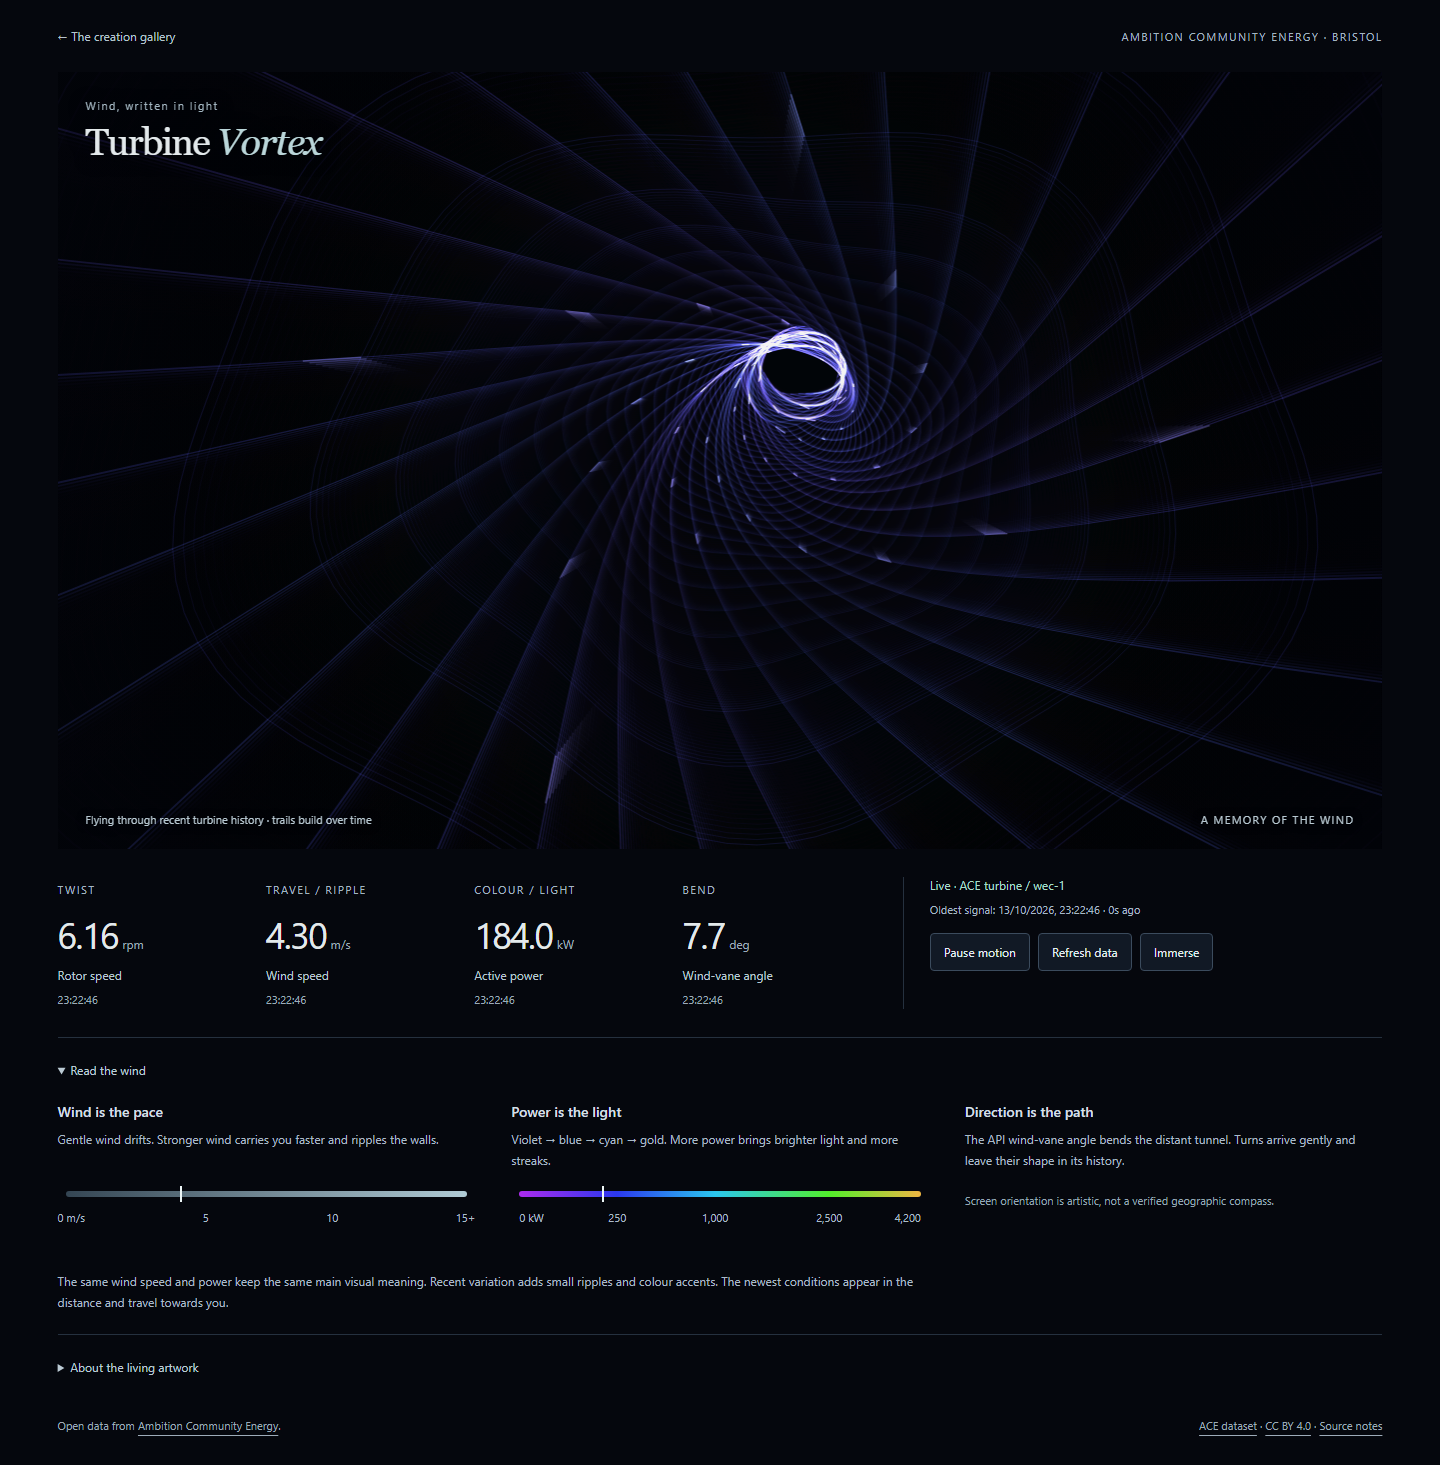
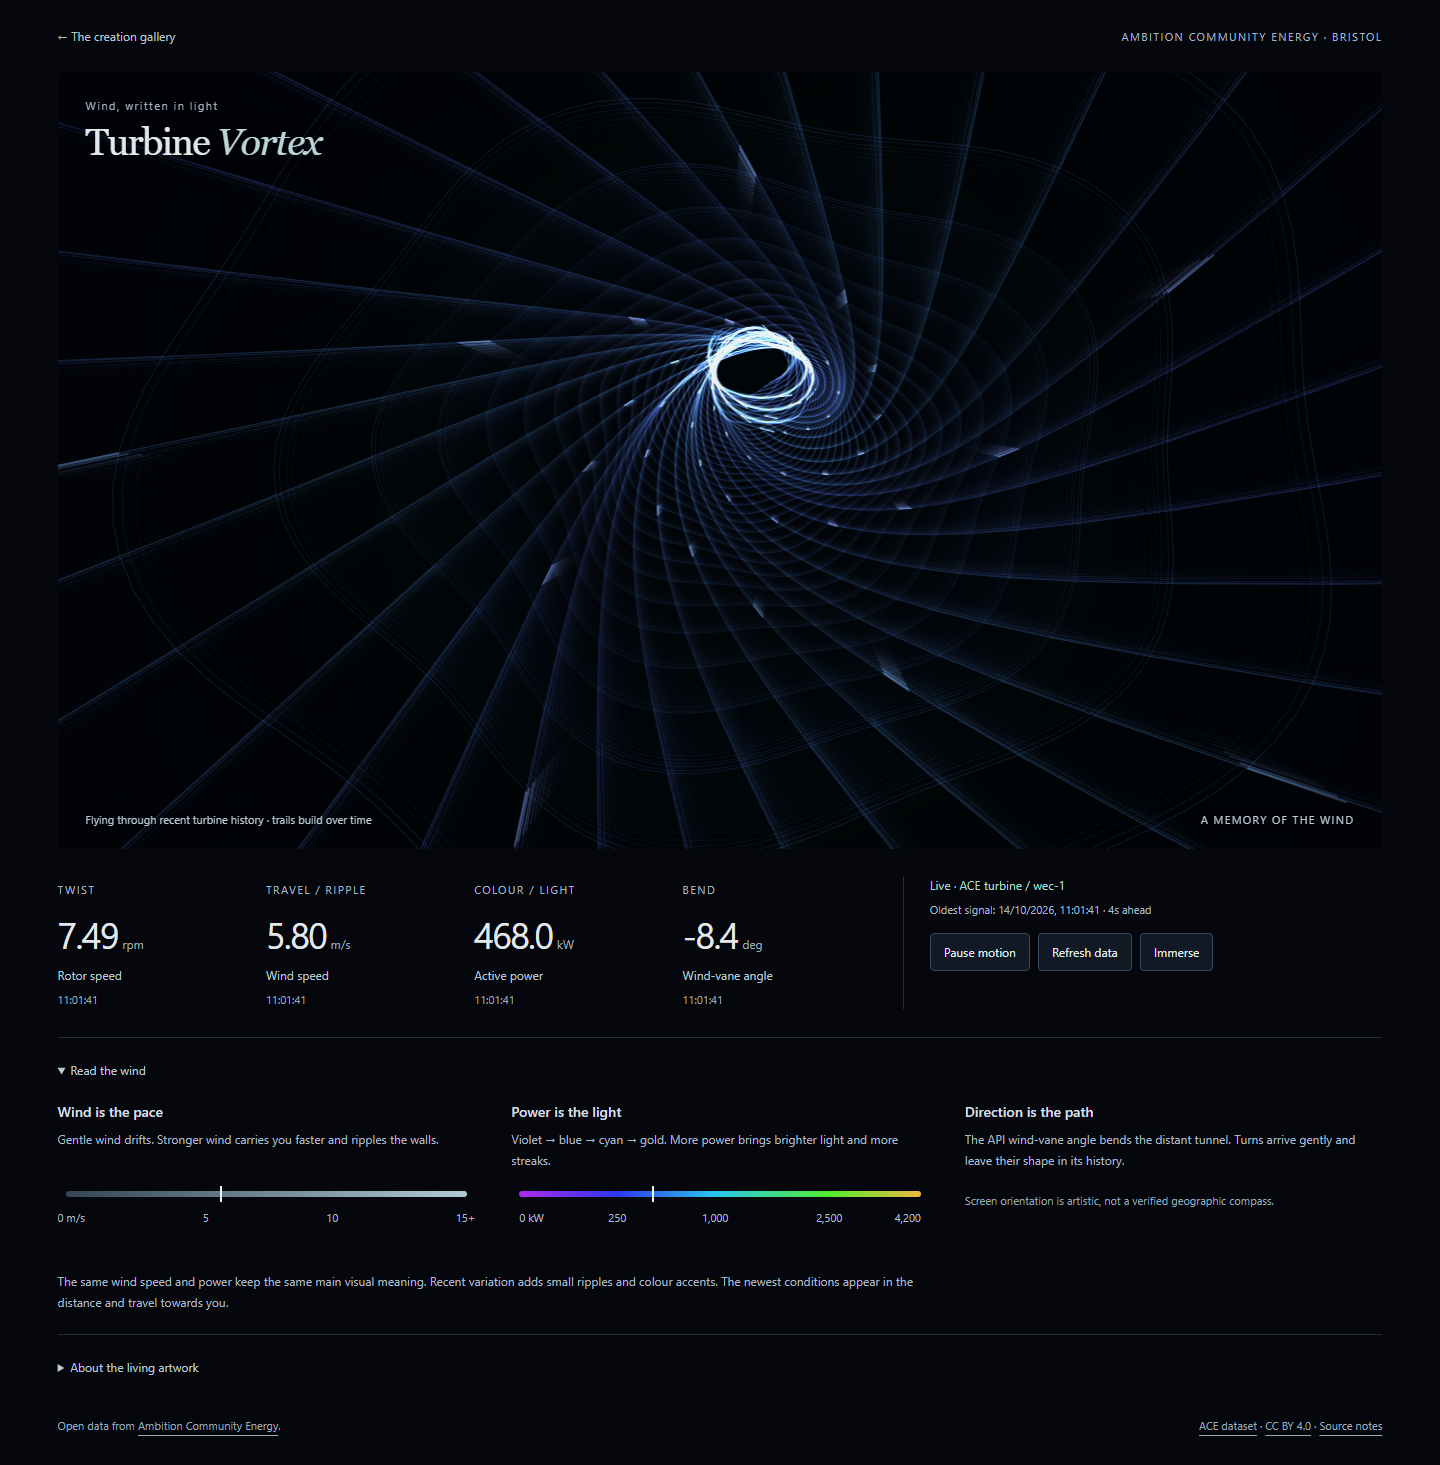
Handle modest ACE clock skew and show data failure reasons

diff --git a/site/creations/turbine-vortex/browser-check.py b/site/creations/turbine-vortex/browser-check.py
@@ -34,7 +34,7 @@ def run():
         errors = []
         page.on('pageerror', lambda error: errors.append(str(error)))
         requests = []
-        state = {'mode': 'valid'}
+        state = {'mode': 'ahead'}
 
         def respond(route):
             requests.append(time.monotonic())
@@ -45,6 +45,8 @@ def run():
                 route.fulfill(status=429, headers={'Retry-After': '5', 'Access-Control-Expose-Headers': 'Retry-After'}, body='rate limited')
                 return
             data = fixture((0, 0, 0, 0) if state['mode'] == 'zero' else (6.2, 4.8, 214, -12))
+            if state['mode'] == 'ahead':
+                data['series_observed_at'] = {f: [int((time.time() + 10) * 1000000)] for f in FIELDS}
             if state['mode'] == 'stale':
                 data['series_observed_at'][FIELDS[1]] = [int((time.time() - 70) * 1000000)]
             if state['mode'] == 'invalid':
@@ -53,6 +55,11 @@ def run():
 
         page.route('https://ace-api.duckdns.org/**', respond)
         page.goto(url)
+        page.wait_for_function("document.querySelector('#status').textContent.startsWith('Live')")
+        assert 'Clock difference' in page.locator('#observed').inner_text()
+        state['mode'] = 'valid'
+        page.reload()
+        requests.clear()
         page.wait_for_function("document.querySelector('#status').textContent.startsWith('Live')")
         page.wait_for_timeout(1000)
         assert page.locator('#rpm').inner_text() == '6.20'
@@ -78,6 +85,7 @@ def run():
         state['mode'] = 'invalid'
         page.wait_for_function("document.querySelector('#status').textContent.startsWith('Unavailable')")
         assert page.locator('#power').inner_text() == '214.0'
+        assert 'Missing or invalid wec_active_power reading' in page.locator('#observed').inner_text()
         state['mode'] = 'valid'
         page.wait_for_function("document.querySelector('#status').textContent.startsWith('Live')", timeout=15000)
         state['mode'] = 'offline'
@@ -133,7 +141,7 @@ def run():
         assert not errors, errors
         browser.close()
     server.shutdown()
-    print('PASS: prefix, four live signals, immersion/quiet controls, responsive widths, focus, pause, reduced motion, zero, stale, invalid, offline, recovery, cooldown, Retry-After')
+    print('PASS: clock skew/visible diagnostics, prefix, four live signals, immersion/quiet controls, responsive widths, focus, pause, reduced motion, zero, stale, invalid, offline, recovery, cooldown, Retry-After')
 
 if __name__ == '__main__':
     run()

diff --git a/site/creations/turbine-vortex/README.md b/site/creations/turbine-vortex/README.md
@@ -17,8 +17,8 @@ Docs, OpenAPI, `/v1/sites`, `/v1/sites/ace/assets`, `/v1/families` and a live co
 - `wec_rotor_speed`: rpm; `wec_wind_speed`: m/s; `wec_active_power`: kW; `wec_wind_direction`: degrees, native OPC node `Vane`. The catalogue and four-signal live response were rechecked on 13 October 2026. Signed vane angles are valid; a live response included -11.6 degrees. The catalogue does not specify its geographic reference, so the artwork makes no geographic compass claim.
 - One shared, completion-based request every **2 seconds**, above the catalogue's 1-second minimum. Manual refresh shares the cooldown; no overlap. A 15-second timeout, exponential failure backoff up to 60 seconds, and HTTP 429 `Retry-After` apply. Separate visitors/tabs each generate their own traffic.
 - Metadata was checked during development and is not repeatedly fetched by visitors. All four fields are requested together with `limit=1`.
-- Each field must be finite with case-insensitive `Good` quality and a valid `series_observed_at` Unix microsecond timestamp, converted to milliseconds. Nulls, missing fields, invalid quality, timestamps over 5 seconds in the future and regressing observations are rejected. Negative wind/RPM are rejected; signed power and vane angles remain visible. Valid zero is preserved. If the direction signal fails or is stale, the artwork rests rather than inventing a heading.
-- **60 seconds** is the chosen stale threshold for the oldest signal, not a server guarantee. Individual local observation times and the oldest full date are visible. Stale readings stay labelled; malformed/offline/error responses retain last valid numbers with an unavailable warning. Without valid data, numbers remain dashes. The vortex becomes a still, subdued neutral form. No demo fallback.
+- Each field must be finite with case-insensitive `Good` quality and a valid `series_observed_at` Unix microsecond timestamp, converted to milliseconds. Nulls, missing fields, invalid quality, timestamps over 60 seconds in the future and regressing observations are rejected. Negative wind/RPM are rejected; signed power and vane angles remain visible. Valid zero is preserved. If the direction signal fails or is stale, the artwork rests rather than inventing a heading.
+- **60 seconds** is the chosen stale threshold for the oldest signal, not a server guarantee. Individual local observation times and the oldest full date are visible. Stale readings stay labelled; malformed/offline/error responses retain last valid numbers with an unavailable warning. Without valid data, numbers remain dashes. The vortex becomes a still, subdued neutral form. No demo fallback. API/device clock differences up to 60 seconds are tolerated without altering observation timestamps; differences over five seconds are shown on screen. A 14 October 2026 live response had Good observations approximately 5.6 seconds ahead, which the former five-second tolerance incorrectly rejected. Fetch/timeout/quality/validation failures now show a reason beside the observation information and emit a console warning; automatic backoff and recovery still apply.
 
 ## Artistic mapping and adaptive scale
 
@@ -44,4 +44,4 @@ Code and original canvas artwork/screenshot: MIT, see `LICENSE`. The poller is c
 
 ## Validation
 
-Run `node scripts/validate.mjs` from the repository root and `node --test site/creations/turbine-vortex/signals.test.mjs site/creations/turbine-vortex/poller.test.mjs site/creations/turbine-vortex/tunnel.test.mjs` for signal, adaptive-range, poller and history-retention checks, including simulated hour-long calm and strong-wind sessions, signed direction/wraparound and stable visual meanings. Optional browser QA uses `python site/creations/turbine-vortex/browser-check.py` (install developer-only `playwright` and its Chromium browser first). It starts and stops a temporary local server, checks the repository prefix, widths from 320px to desktop, quiet immersion controls, keyboard focus, pause/reduced motion, live readings, stale/invalid/offline responses, recovery, refresh cooldown and exposed `Retry-After`, and updates the gallery screenshot using actual live readings. Mock readings are used only in tests, never as a production fallback. All checks passed on 13 October 2026, including live browser access. The gallery listing is separate from the official WeDoWind challenge comment.
+Run `node scripts/validate.mjs` from the repository root and `node --test site/creations/turbine-vortex/signals.test.mjs site/creations/turbine-vortex/poller.test.mjs site/creations/turbine-vortex/tunnel.test.mjs` for signal, adaptive-range, poller and history-retention checks, including simulated hour-long calm and strong-wind sessions, signed direction/wraparound and stable visual meanings. Optional browser QA uses `python site/creations/turbine-vortex/browser-check.py` (install developer-only `playwright` and its Chromium browser first). It starts and stops a temporary local server, checks the repository prefix, widths from 320px to desktop, quiet immersion controls, keyboard focus, pause/reduced motion, live readings, stale/invalid/offline responses, recovery, refresh cooldown and exposed `Retry-After`, and updates the gallery screenshot using actual live readings. Mock readings are used only in tests, never as a production fallback. Checks were rerun on 14 October 2026 for the clock-skew fix, including a future-observation fixture, visible failure reasons and live browser access. The gallery listing is separate from the official WeDoWind challenge comment.
